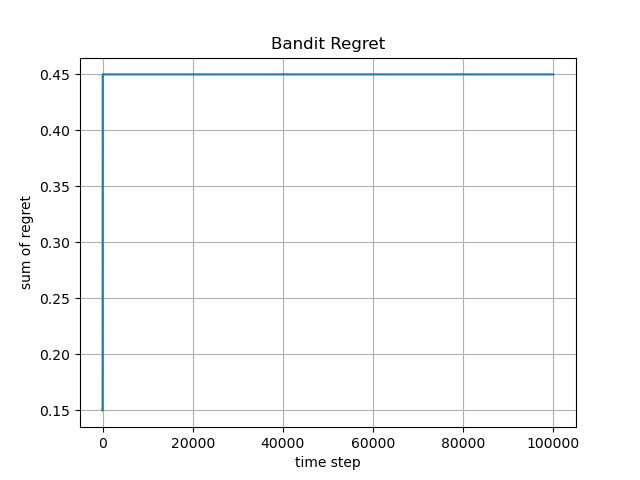
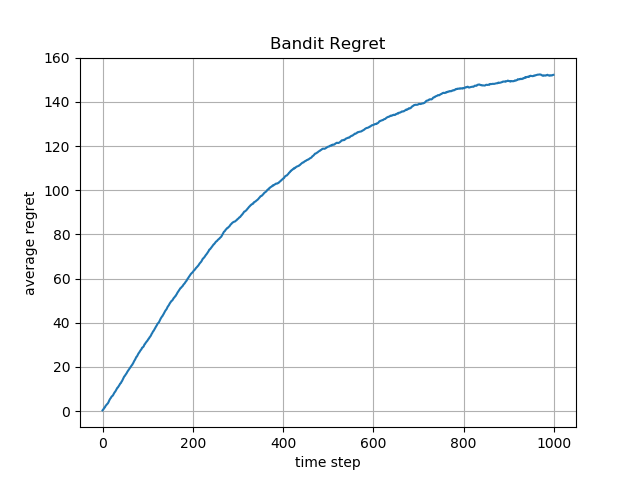
Updated bandit to incorporate simulations and time horizon. Changed a few functions. Should be working now.

diff --git a/multi-armed_bandit/Bandit.py b/multi-armed_bandit/Bandit.py
@@ -3,115 +3,109 @@ import matplotlib.pyplot as plt
 
 class Bandit():
 
-    def __init__(self, m, u):
+    def __init__(self, m, u, T):
         # number of topics
         self.m = m
+        self.T = T # time horizon
         
-        self.weighted_sample_count = np.zeros((m,1))
-        self.cumulative_empirical_reward = np.zeros((m,1))
-
-        # preferences
+        # true (unknown) preferences
         self.u = u
 
         # alpha
         self.exploratory_parameter = 2.5
 
-        # sigma swuared
-        self.var_proxy = 0.001
+        # variance proxy (sigma squared)
+        self.var_proxy = 1
+        self.reset()
+        
 
-        self.time_step = 0
+    def reset(self):
+        self.weighted_sample_count = np.zeros(self.m)
+        self.cumulative_empirical_reward = np.zeros(self.m)
+        self.time_step = 1 # SARAH: Check if off by one
 
-        self.regret = np.zeros((1,1))
-        self.regret_vec = np.zeros((0,1))
+        self.regret = 0
+        self.regret_vec = np.zeros(self.T)
 
+    def update(self, Z_t):
 
-    def update(self, z_t):
-
-        i_chosen = self.choose_arm(z_t)
-        X_t = self.reward(z_t)
-        z_chosen = z_t[i_chosen:i_chosen+1,:].T
+        row_ind_chosen = self.UCB_arm(Z_t)
+        z_chosen = Z_t[row_ind_chosen]
+        X_t = self.sample_reward(z_chosen) # reward
 
         self.weighted_sample_count += z_chosen
+        self.cumulative_empirical_reward += z_chosen * X_t
 
-        # reward
-        x_t = X_t[i_chosen]
+        # SARAH : add function
+        best_row_ind = np.argmax(np.dot(Z_t, self.u))
+        z_best = Z_t[best_row_ind]
+        X_star = np.dot(z_best, self.u)
 
-        # add element wise multiplication
-        self.cumulative_empirical_reward += z_chosen * x_t
-
-        best_i = np.argmax(np.dot(z_t, self.u))
-        z_best = z_t[best_i:best_i+1,:]
-        best_reward = np.dot(z_best, self.u)[0]
         # print(best_reward)
         # best_reward = X_t[best_i]
         # print(best_reward)
-        self.regret += best_reward - (x_t)
-        self.regret_vec = np.vstack([self.regret_vec, self.regret])
+
+        self.regret += X_star - X_t
+        self.regret_vec[self.time_step - 1] = self.regret
 
         self.time_step += 1
 
-    def reward(self, z_t):
-        # noisy reward
-        mean = np.dot(z_t, self.u)
-        # print(mean.shape)
-        # for i in range(len(mean)):
-        #     mean[i][0] = np.random.normal(mean[i][0], self.var_proxy)
-        return mean
 
-    def choose_arm(self, z_t):
+    def sample_reward(self, z):
+        return np.random.normal(np.dot(z, self.u), self.var_proxy)
 
-        if self.time_step == 0:
+    def UCB_arm(self, Z_t):
+        if self.time_step == 1:
             # pick an arm at random
-            i = np.random.randint(0,z_t.shape[0])
-            return i
+            return np.random.randint(0, Z_t.shape[0])
 
-        u_estimate = np.divide(self.cumulative_empirical_reward, self.weighted_sample_count)
+        empirical_means = np.divide(self.cumulative_empirical_reward, self.weighted_sample_count)
 
         # Select action according to UCB-LI Criteria
-        i = np.argmax(
-                np.dot(z_t, u_estimate)
-                + np.sqrt(
-                    ( 2 * self.exploratory_parameter * self.var_proxy * np.log(self.time_step)) / 
-                    np.dot(z_t, self.weighted_sample_count)
-                ))
+        content_value_estimates = np.dot(Z_t, empirical_means)
+        confidence_interval = np.sqrt(
+            ( 2.0 * self.exploratory_parameter * self.var_proxy * np.log(self.time_step)) / 
+                    np.dot(Z_t, self.weighted_sample_count) )
+        # print(content_value_estimates.shape)
+        # print(confidence_interval.shape)
+        i = np.argmax( content_value_estimates + confidence_interval )
         return i
 
 
         
 if __name__ == "__main__":
 
+    # System parameters
+    time_horizon = 1000
+    num_simulations = 100
 
-    num_simulations = 100000
+    num_content = 5
+    num_topics = 2
 
-    # n x m, 3 by 2 , 3 items 2 topics
-    test_z_1 = np.array([[1,0], [0,1], [0.5, 0.5]])
+    # Regret
+    sum_regret = np.zeros(time_horizon)
+
+    # Bandit
+    true_prefs = np.array([.5,.2])
+    b = Bandit(num_topics, true_prefs, time_horizon)
+
+    for simulation_index in range(0,num_simulations): 
+        for t in range(0, time_horizon):
+            Z_t = np.random.rand(num_content, num_topics)
+            b.update(Z_t)
+        sum_regret += b.regret_vec
+        b.reset()
 
 
-    # m x 1, 2 topics cats, dogs
-    b = Bandit(2, np.array([[.5,.2]]).T)
-
-    for i in range(num_simulations):
-        # test_z_1 = np.array([[np.random.uniform(0,1),np.random.uniform(0,1)], [np.random.uniform(0,1),np.random.uniform(0,1)], [np.random.uniform(0,1), np.random.uniform(0,1)]])
-        b.update(test_z_1)
-
-    print("weighted_sample_count", b.weighted_sample_count)
-    print("cumulative_empirical_reward", b.cumulative_empirical_reward)
-
-    # Data for plotting
-    x = np.arange(0,num_simulations )
-    y = b.regret_vec
-
+    # Plot regret
     fig, ax = plt.subplots()
-    ax.plot(x, y)
+    t_vec = np.arange(0, time_horizon)
+    ax.plot(t_vec, sum_regret/num_simulations)
+    print(sum_regret)
     
-    ax.set(xlabel='time step', ylabel='sum of regret',
+    ax.set(xlabel='time step', ylabel='average regret',
         title='Bandit Regret')
     ax.grid()
 
     fig.savefig("regret.png")
     plt.show()
-
-
-
-    
-
